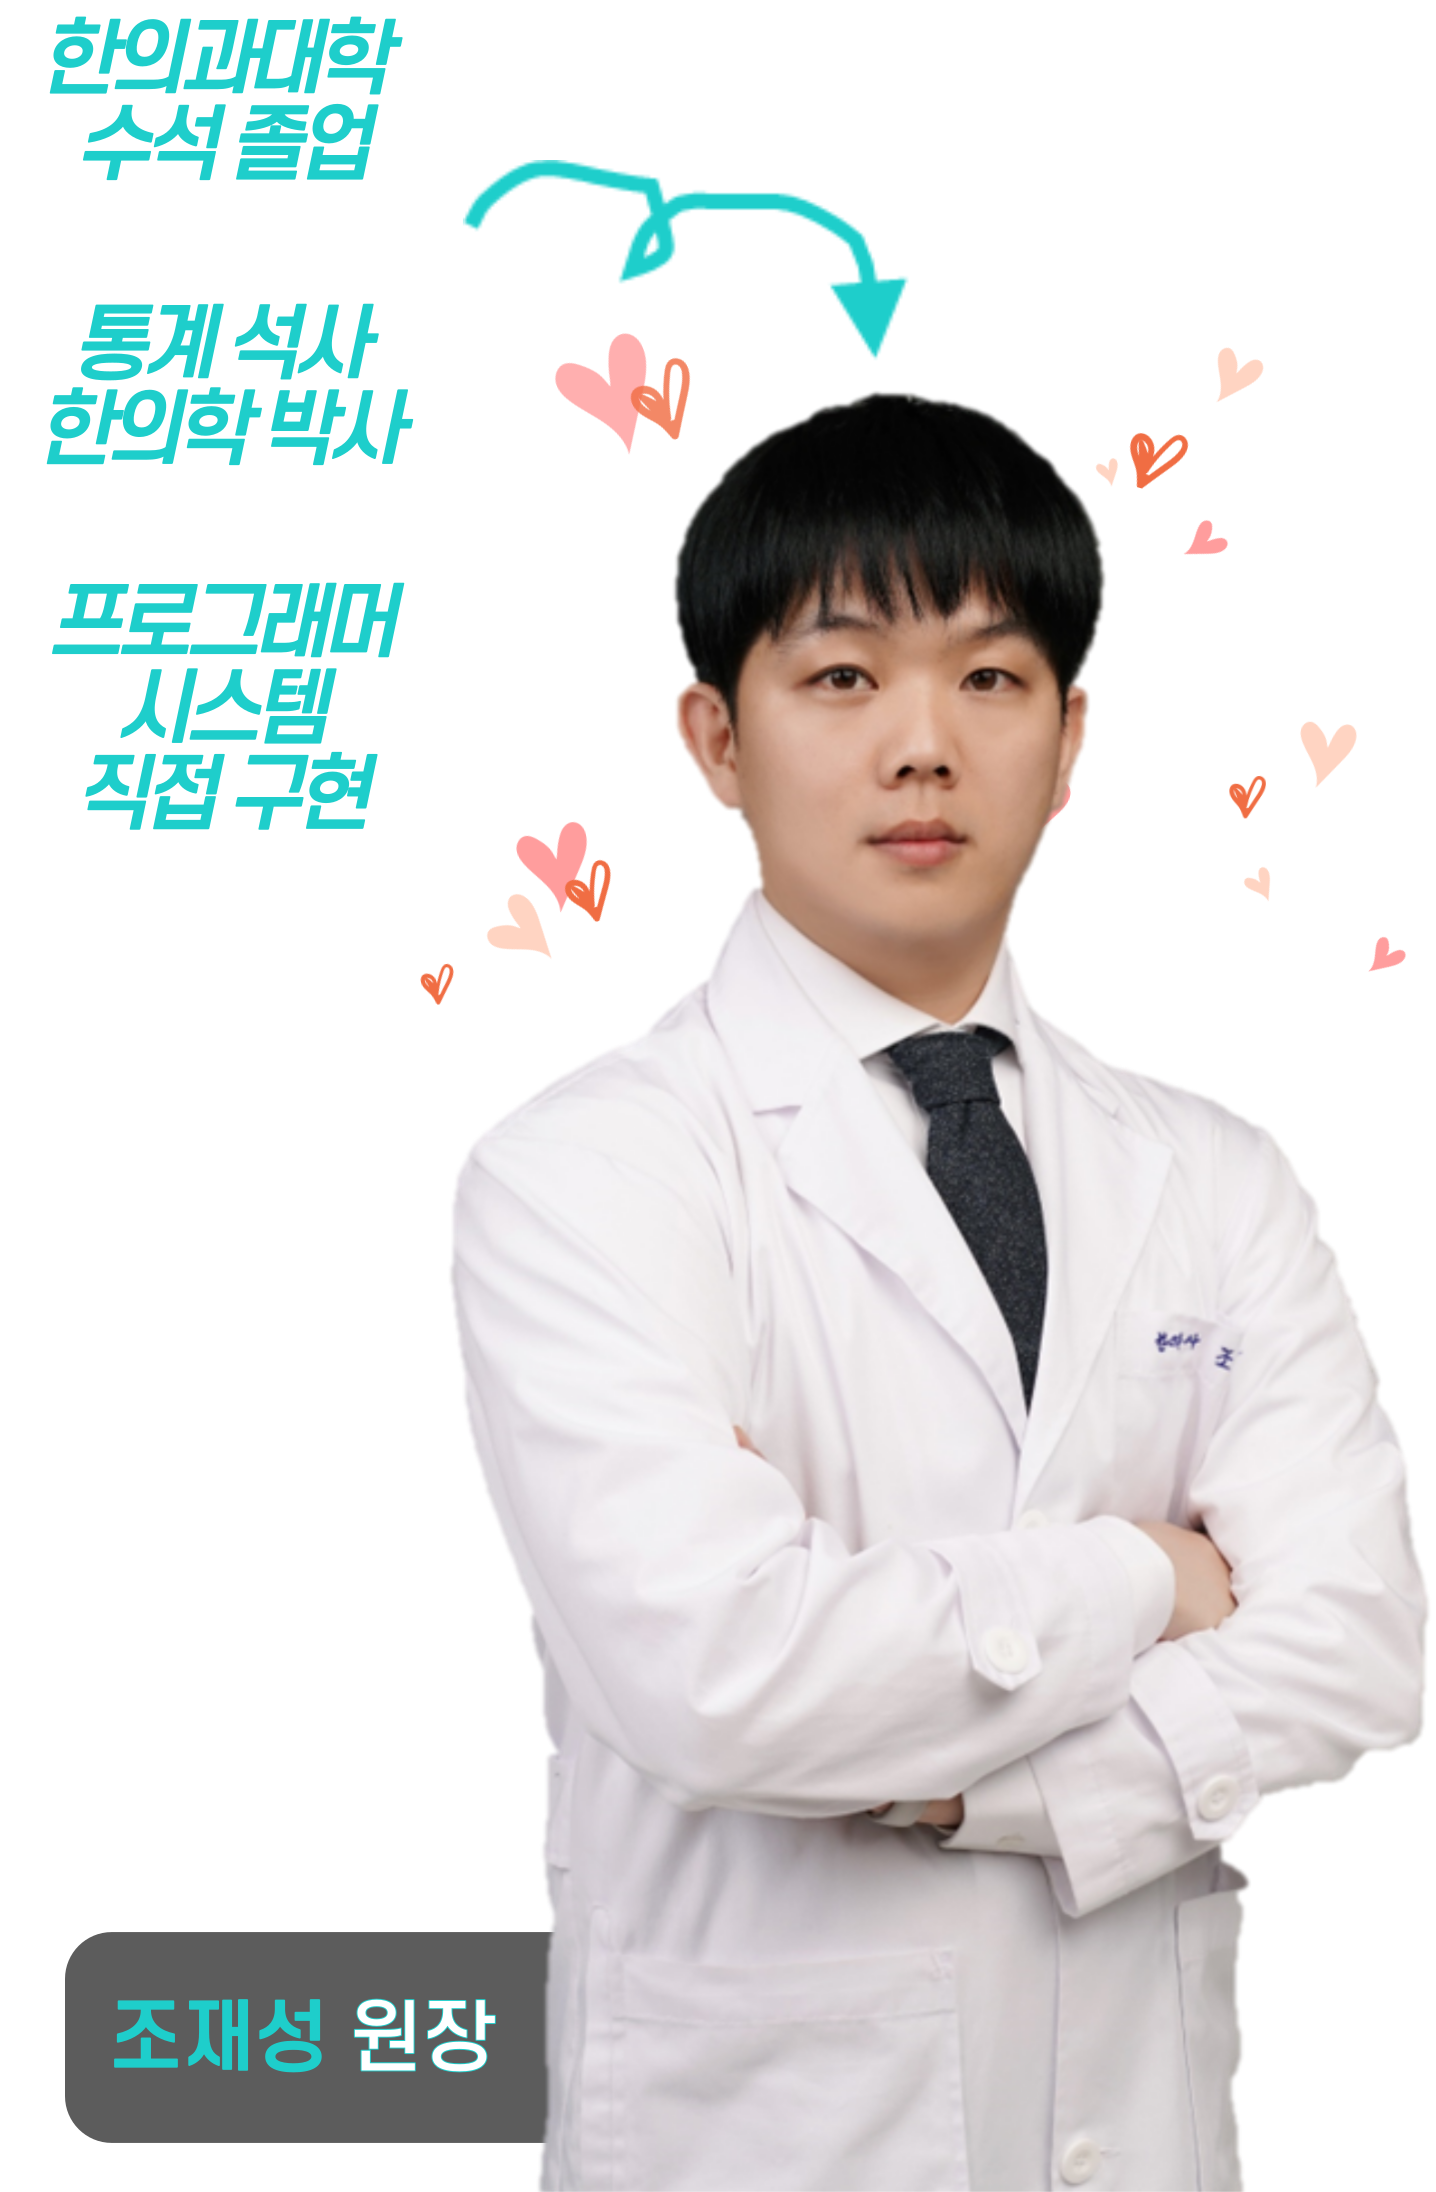
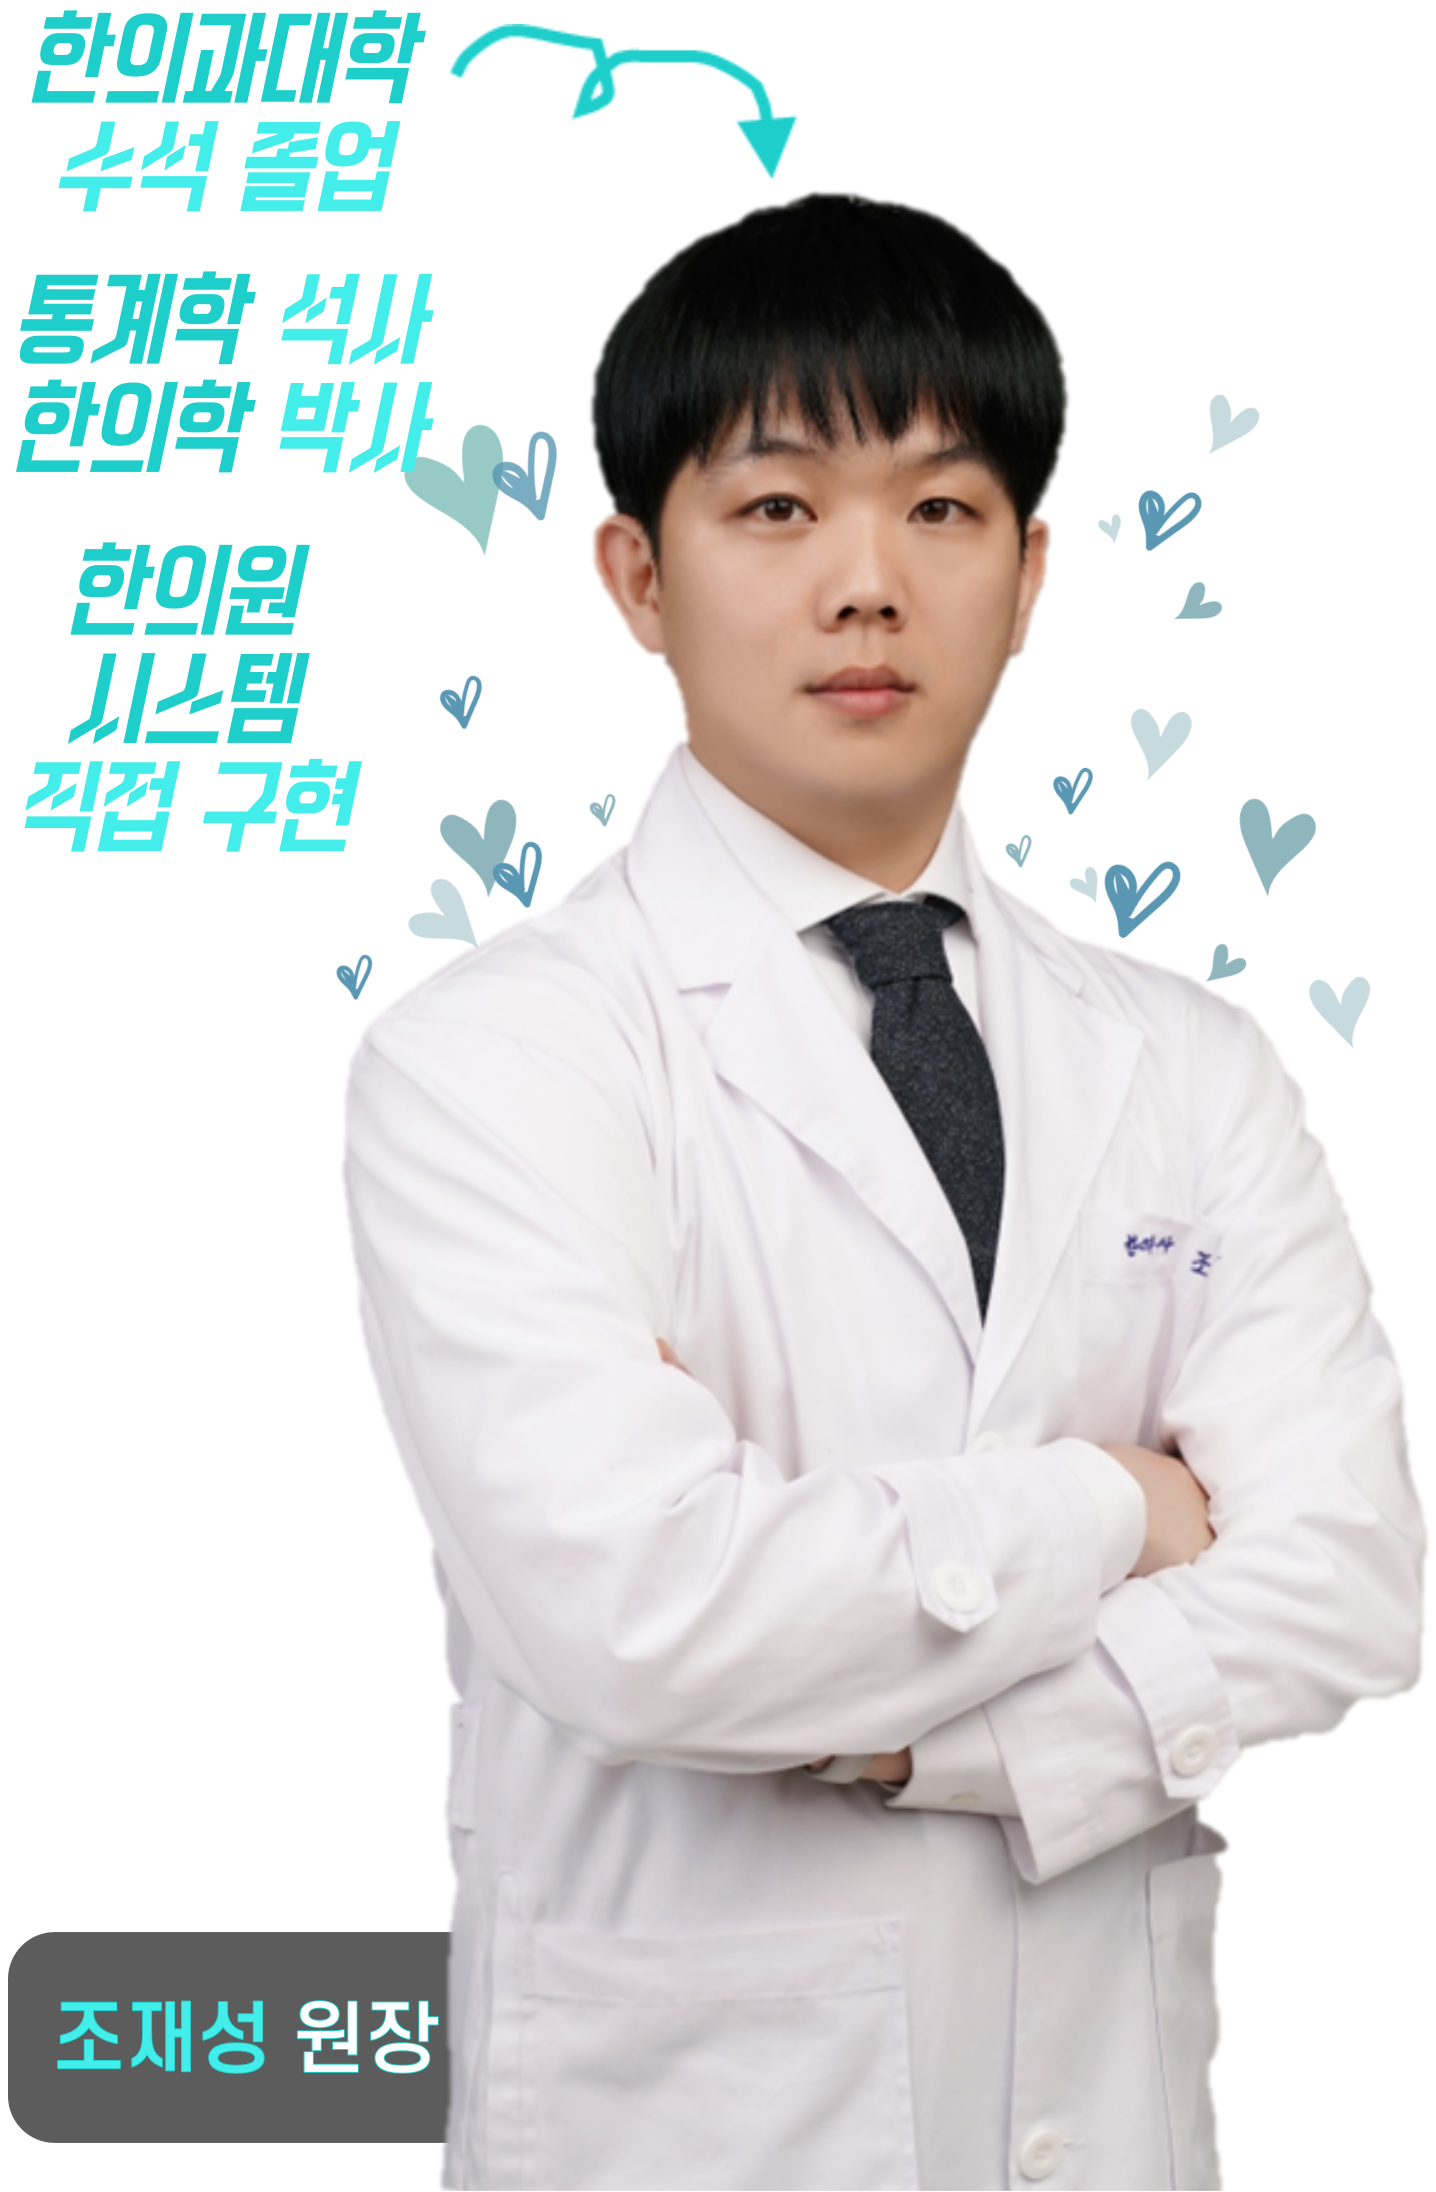
feat: section2-bottom carousel 스타일 수정

diff --git a/js/index.js b/js/index.js
@@ -153,9 +153,13 @@ $(function () {
             slideChangeTransitionEnd: function () {
                 swiperAnimate(this); //每个slide切换结束时也运行当前slide动画
                 // console.log(this.activeIndex)
-                let offsetY = this.activeIndex * 30;
-                $(".section2-bottom .swiper-name > span").animate({top: -offsetY}, 500);
-                $(".section2-bottom .swiper-number > span").animate({top: -offsetY}, 500);
+                // let offsetY = this.activeIndex * 30;
+                // $(".section2-bottom .swiper-name > span").animate({top: -offsetY}, 500);
+                // $(".section2-bottom .swiper-number > span").animate({top: -offsetY}, 500);
+                let fontLineHeightVw = 3.3;
+                let offsetY =  this.activeIndex * fontLineHeightVw;
+                $(".section2-bottom .swiper-name > span").animate({top: -offsetY + "vw"}, 500);
+                $(".section2-bottom .swiper-number > span").animate({top: -offsetY + "vw"}, 500);
             }
         },
 

diff --git a/css/index.css b/css/index.css
@@ -1158,10 +1158,11 @@ a {
     /* 임시 */
     /*background: red;*/
 }
-
+/* - 모바일에선 꽉채우는 부모 width가 더 넓어져서 height 좀 더 늘리기 + border-radius 낮추기*/
 @media screen and (max-width: 991px){
     .section2-bottom .swiper-container {
         height: 42vw;
+        border-radius: 8px;
     }
 }
 
@@ -1344,7 +1345,8 @@ a {
     position: absolute;
 
     width: 4vw;
-    height: 3px;
+    /*height: 3px;*/
+    height: 0.5vw;
     background: #fff;
 
     left: 5%;
@@ -1360,11 +1362,15 @@ a {
     left: 5%;
     top: 15%;
 
-    line-height: 30px;
-    height: 30px;
+    /*line-height: 30px;*/
+    /*height: 30px;*/
+    /*font-size: 25px;*/
+    line-height: 3.3vw;
+    height: 3.3vw;
+    font-size: 3vw;
+
     overflow: hidden;
 
-    font-size: 25px;
     color: #fff;
 
     z-index: 666;

diff --git a/docs/05_메인화면 작성 with scrollmagic.md b/docs/05_메인화면 작성 with scrollmagic.md
@@ -1787,3 +1787,44 @@ scene4.on("start", function (event) {
     }
 })
 ```
+
+
+5. 모바일을 위해 글자크기를 vw로 수정하기
+    - border-radius는 직접적으로 8px로 줄여주기?
+```css
+/* - 모바일에선 꽉채우는 부모 width가 더 넓어져서 height 좀 더 늘리기 + border-radius 낮추기*/
+@media screen and (max-width: 991px){
+    .section2-bottom .swiper-container {
+        height: 42vw;
+        border-radius: 8px;
+    }
+}
+```
+```css
+.section2-bottom .swiper-container .swiper-line {
+    position: absolute;
+
+    width: 4vw;
+    /*height: 3px;*/
+    height: 0.5vw;
+}
+```
+```css
+.section2-bottom .swiper-container .swiper-name,
+.section2-bottom .swiper-container .swiper-number
+{
+    /*line-height: 30px;*/
+    /*height: 30px;*/
+    /*font-size: 25px;*/
+    line-height: 3vw;
+    height: 3vw;
+    font-size: 2vw;
+
+}
+```
+![img.png](../ui/173.png)
+
+
+
+### 아래하단의 쿠키 허용여부 물어보기
+
